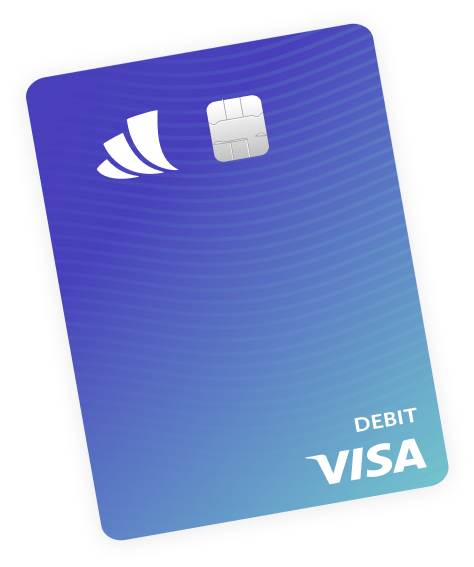
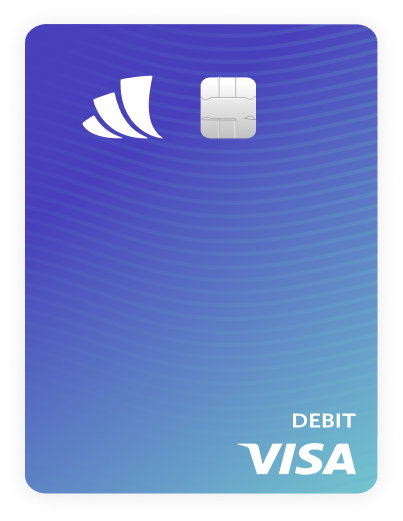
06.06.2022

diff --git a/scss/style.scss b/scss/style.scss
@@ -36,6 +36,9 @@ body {
 	);
 }
 
+section {
+	padding: 45px 0;
+}
 main {
 	flex: 1 1 auto;
 }
@@ -272,7 +275,7 @@ p {
 //* investing section ===
 .investing {
 	padding: 67.5px 0px 45px 0px;
-	&__container-xl {
+	&__container {
 		display: flex;
 		justify-content: center;
 		@include adaptiv-value("padding-left", 65, 30, 0);
@@ -281,15 +284,16 @@ p {
 	}
 	&__content {
 		max-width: 45%;
+		display: flex;
+		flex-direction: column;
+		gap: 40px;
 	}
 	&__title {
 		line-height: 0.96em;
 		letter-spacing: em(3px, "em", 56px);
-		margin-bottom: 15px;
 	}
 
 	&__text {
-		margin-bottom: 30px;
 	}
 
 	&__btns {
@@ -323,6 +327,45 @@ p {
 :root {
 	--wf-fade-stop: 0%;
 	--wf-fade-start: 5%;
+}
+//*
+//* Cash section
+.cash {
+	&__container {
+		@extend .investing__container;
+		align-items: center;
+		gap: 4%;
+	}
+	&__img {
+		display: flex;
+		justify-content: flex-end;
+		flex: 11;
+		position: relative;
+		&::before {
+			content: url(@img/icons/icons.svg#card);
+			position: absolute;
+			@include adaptiv-value("width", 354, 177, 1);
+			@include adaptiv-value("height", 471, 235.5, 1);
+			left: 0.5%;
+			@include adaptiv-value("top", 136, 400, 1);
+			transition: all 0.3s ease 0s;
+			transform: rotate(-10deg) scale(1);
+			// background: url(@img/card.png);
+		}
+	}
+	&__content {
+		@extend .investing__content;
+		flex: 6;
+	}
+	&__title {
+		@extend .investing__title;
+	}
+	&__text {
+		@extend .investing__text;
+	}
+	&__btns {
+		@extend .investing__btns;
+	}
 }
 
 //* === touch/pc ===
@@ -518,7 +561,7 @@ body._touch {
 		}
 	}
 	.investing {
-		&__container-xl {
+		&__container {
 			flex-direction: column-reverse;
 		}
 		&__content {

diff --git a/index.html b/index.html
@@ -74,7 +74,7 @@
 				</div>
 			</section>
 			<section class="investing">
-				<div class="investing__container-xl">
+				<div class="investing__container">
 					<div class="investing__content">
 						<h2 class="investing__title">
 							Investing isn’t easy. We just make it feel that way.
@@ -90,6 +90,27 @@
 					</div>
 					<div class="investing__img">
 						<img src="@img/phone.png" alt="">
+					</div>
+				</div>
+			</section>
+			<section class="cash">
+				<div class="cash__container">
+					<div class="cash__img">
+						<img src="@img/phone2.png" alt="">
+					</div>
+					<div class="cash__content">
+						<h2 class="cash__title">
+							Everyday cash, designed to build long-term wealth.
+						</h2>
+						<p class="cash__text">
+							Our Cash account, offered with Green Dot Bank, lets you automate your savings, so you can pay
+							bills, withdraw from 19,000+ ATMs, and invest your extra cash in seconds to keep building your
+							future.
+						</p>
+						<div class="cash__btns">
+							<a href="##" class="btn btn__get btn__investing">Start Investing</a>
+							<a href="##" class="btn btn__more">Learn more</a>
+						</div>
 					</div>
 				</div>
 			</section>
